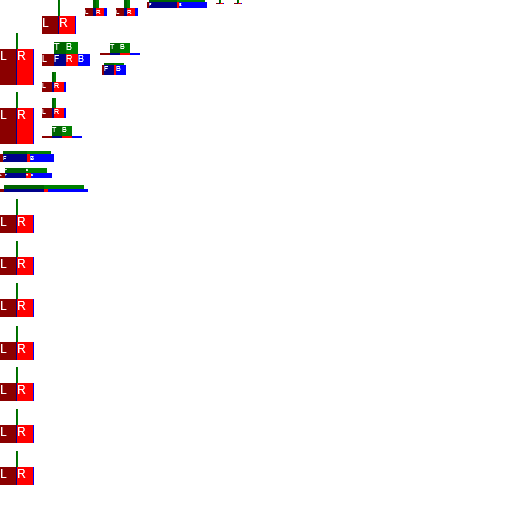
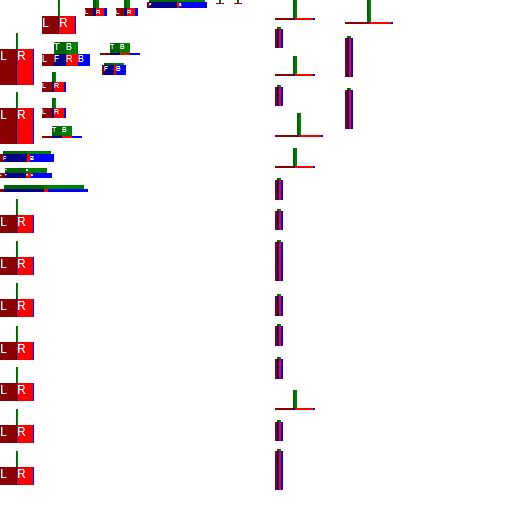
Corrected TIE (final model changes)

diff --git a/techne/TIE Fighter.java b/techne/TIE Fighter.java
@@ -1,4 +1,4 @@
-// Date: 11/22/2015 3:43:09 PM
+// Date: 11/24/2015 9:31:36 PM
 // Template version 1.1
 // Java generated by Techne
 // Keep in mind that you still need to fill in some blanks
@@ -38,6 +38,24 @@ public class ModelNew extends ModelBase
     ModelRenderer Body_Panel_7;
     ModelRenderer Body_Panel_8;
     ModelRenderer Body_Panel_9;
+    ModelRenderer Wing_1;
+    ModelRenderer Wing_2;
+    ModelRenderer Wing_3;
+    ModelRenderer Wing_4;
+    ModelRenderer Wing_5;
+    ModelRenderer Wing_6;
+    ModelRenderer Wing_7;
+    ModelRenderer Wing_8;
+    ModelRenderer Wing_9;
+    ModelRenderer Wing_10;
+    ModelRenderer Wing_11;
+    ModelRenderer Wing_12;
+    ModelRenderer Wing_13;
+    ModelRenderer Wing_14;
+    ModelRenderer Wing_15;
+    ModelRenderer Wing_16;
+    ModelRenderer Wing_17;
+    ModelRenderer Wing_18;
   
   public ModelNew()
   {
@@ -188,6 +206,114 @@ public class ModelNew extends ModelBase
       Body_Panel_9.setTextureSize(64, 32);
       Body_Panel_9.mirror = true;
       setRotation(Body_Panel_9, 0F, 0F, 0F);
+      Wing_1 = new ModelRenderer(this, 275, 0);
+      Wing_1.addBox(-19.5F, 1F, -9F, 2, 2, 18);
+      Wing_1.setRotationPoint(0F, 22F, 0F);
+      Wing_1.setTextureSize(512, 512);
+      Wing_1.mirror = true;
+      setRotation(Wing_1, 0F, 0F, 0F);
+      Wing_2 = new ModelRenderer(this, 275, 27);
+      Wing_2.addBox(-19.5F, -32.8F, -15F, 2, 19, 2);
+      Wing_2.setRotationPoint(0F, 22F, 0F);
+      Wing_2.setTextureSize(512, 512);
+      Wing_2.mirror = true;
+      setRotation(Wing_2, -0.1745329F, 0F, 0F);
+      Wing_3 = new ModelRenderer(this, 275, 56);
+      Wing_3.addBox(-19.5F, -35F, -9F, 2, 2, 18);
+      Wing_3.setRotationPoint(0F, 22F, 0F);
+      Wing_3.setTextureSize(512, 512);
+      Wing_3.mirror = true;
+      setRotation(Wing_3, 0F, 0F, 0F);
+      Wing_4 = new ModelRenderer(this, 275, 85);
+      Wing_4.addBox(-19.5F, -32.8F, 13F, 2, 19, 2);
+      Wing_4.setRotationPoint(0F, 22F, 0F);
+      Wing_4.setTextureSize(512, 512);
+      Wing_4.mirror = true;
+      setRotation(Wing_4, 0.1745329F, 0F, 0F);
+      Wing_5 = new ModelRenderer(this, 275, 113);
+      Wing_5.addBox(-19.5F, -17F, -11F, 2, 2, 22);
+      Wing_5.setRotationPoint(0F, 22F, 0F);
+      Wing_5.setTextureSize(512, 512);
+      Wing_5.mirror = true;
+      setRotation(Wing_5, 0F, 0F, 0F);
+      Wing_6 = new ModelRenderer(this, 275, 148);
+      Wing_6.addBox(17.5F, 1F, -9F, 2, 2, 18);
+      Wing_6.setRotationPoint(0F, 22F, 0F);
+      Wing_6.setTextureSize(512, 512);
+      Wing_6.mirror = true;
+      setRotation(Wing_6, 0F, 0F, 0F);
+      Wing_7 = new ModelRenderer(this, 275, 178);
+      Wing_7.addBox(-19.5F, -18.6F, 7.3F, 2, 20, 2);
+      Wing_7.setRotationPoint(0F, 22F, 0F);
+      Wing_7.setTextureSize(512, 512);
+      Wing_7.mirror = true;
+      setRotation(Wing_7, -0.1745329F, 0F, 0F);
+      Wing_8 = new ModelRenderer(this, 275, 209);
+      Wing_8.addBox(17.5F, -32.8F, 13F, 2, 19, 2);
+      Wing_8.setRotationPoint(0F, 22F, 0F);
+      Wing_8.setTextureSize(512, 512);
+      Wing_8.mirror = true;
+      setRotation(Wing_8, 0.1745329F, 0F, 0F);
+      Wing_9 = new ModelRenderer(this, 275, 240);
+      Wing_9.addBox(-19.5F, -33.8F, 5F, 2, 39, 2);
+      Wing_9.setRotationPoint(0F, 22F, 0F);
+      Wing_9.setTextureSize(512, 512);
+      Wing_9.mirror = true;
+      setRotation(Wing_9, 0.3839724F, 0F, 0F);
+      Wing_10 = new ModelRenderer(this, 275, 294);
+      Wing_10.addBox(-19.5F, -18.6F, -9.3F, 2, 20, 2);
+      Wing_10.setRotationPoint(0F, 22F, 0F);
+      Wing_10.setTextureSize(512, 512);
+      Wing_10.mirror = true;
+      setRotation(Wing_10, 0.1745329F, 0F, 0F);
+      Wing_11 = new ModelRenderer(this, 275, 324);
+      Wing_11.addBox(17.5F, -18.6F, 7.3F, 2, 20, 2);
+      Wing_11.setRotationPoint(0F, 22F, 0F);
+      Wing_11.setTextureSize(512, 512);
+      Wing_11.mirror = true;
+      setRotation(Wing_11, -0.1745329F, 0F, 0F);
+      Wing_12 = new ModelRenderer(this, 275, 357);
+      Wing_12.addBox(17.5F, -18.6F, -9.3F, 2, 20, 2);
+      Wing_12.setRotationPoint(0F, 22F, 0F);
+      Wing_12.setTextureSize(512, 512);
+      Wing_12.mirror = true;
+      setRotation(Wing_12, 0.1745329F, 0F, 0F);
+      Wing_13 = new ModelRenderer(this, 275, 390);
+      Wing_13.addBox(17.5F, -35F, -9F, 2, 2, 18);
+      Wing_13.setRotationPoint(0F, 22F, 0F);
+      Wing_13.setTextureSize(512, 512);
+      Wing_13.mirror = true;
+      setRotation(Wing_13, 0F, 0F, 0F);
+      Wing_14 = new ModelRenderer(this, 275, 420);
+      Wing_14.addBox(17.5F, -32.8F, -15F, 2, 19, 2);
+      Wing_14.setRotationPoint(0F, 22F, 0F);
+      Wing_14.setTextureSize(512, 512);
+      Wing_14.mirror = true;
+      setRotation(Wing_14, -0.1745329F, 0F, 0F);
+      Wing_15 = new ModelRenderer(this, 275, 449);
+      Wing_15.addBox(-19.5F, -34.8F, -7F, 2, 39, 2);
+      Wing_15.setRotationPoint(0F, 22F, 0F);
+      Wing_15.setTextureSize(512, 512);
+      Wing_15.mirror = true;
+      setRotation(Wing_15, -0.3839724F, 0F, 0F);
+      Wing_16 = new ModelRenderer(this, 345, 0);
+      Wing_16.addBox(17.5F, -17F, -11F, 2, 2, 22);
+      Wing_16.setRotationPoint(0F, 22F, 0F);
+      Wing_16.setTextureSize(512, 512);
+      Wing_16.mirror = true;
+      setRotation(Wing_16, 0F, 0F, 0F);
+      Wing_17 = new ModelRenderer(this, 345, 36);
+      Wing_17.addBox(17.5F, -33.8F, 5F, 2, 39, 2);
+      Wing_17.setRotationPoint(0F, 22F, 0F);
+      Wing_17.setTextureSize(512, 512);
+      Wing_17.mirror = true;
+      setRotation(Wing_17, 0.3839724F, 0F, 0F);
+      Wing_18 = new ModelRenderer(this, 345, 88);
+      Wing_18.addBox(17.5F, -34.8F, -7F, 2, 39, 2);
+      Wing_18.setRotationPoint(0F, 22F, 0F);
+      Wing_18.setTextureSize(512, 512);
+      Wing_18.mirror = true;
+      setRotation(Wing_18, -0.3839724F, 0F, 0F);
   }
   
   public void render(Entity entity, float f, float f1, float f2, float f3, float f4, float f5)
@@ -218,6 +344,24 @@ public class ModelNew extends ModelBase
     Body_Panel_7.render(f5);
     Body_Panel_8.render(f5);
     Body_Panel_9.render(f5);
+    Wing_1.render(f5);
+    Wing_2.render(f5);
+    Wing_3.render(f5);
+    Wing_4.render(f5);
+    Wing_5.render(f5);
+    Wing_6.render(f5);
+    Wing_7.render(f5);
+    Wing_8.render(f5);
+    Wing_9.render(f5);
+    Wing_10.render(f5);
+    Wing_11.render(f5);
+    Wing_12.render(f5);
+    Wing_13.render(f5);
+    Wing_14.render(f5);
+    Wing_15.render(f5);
+    Wing_16.render(f5);
+    Wing_17.render(f5);
+    Wing_18.render(f5);
   }
   
   private void setRotation(ModelRenderer model, float x, float y, float z)
